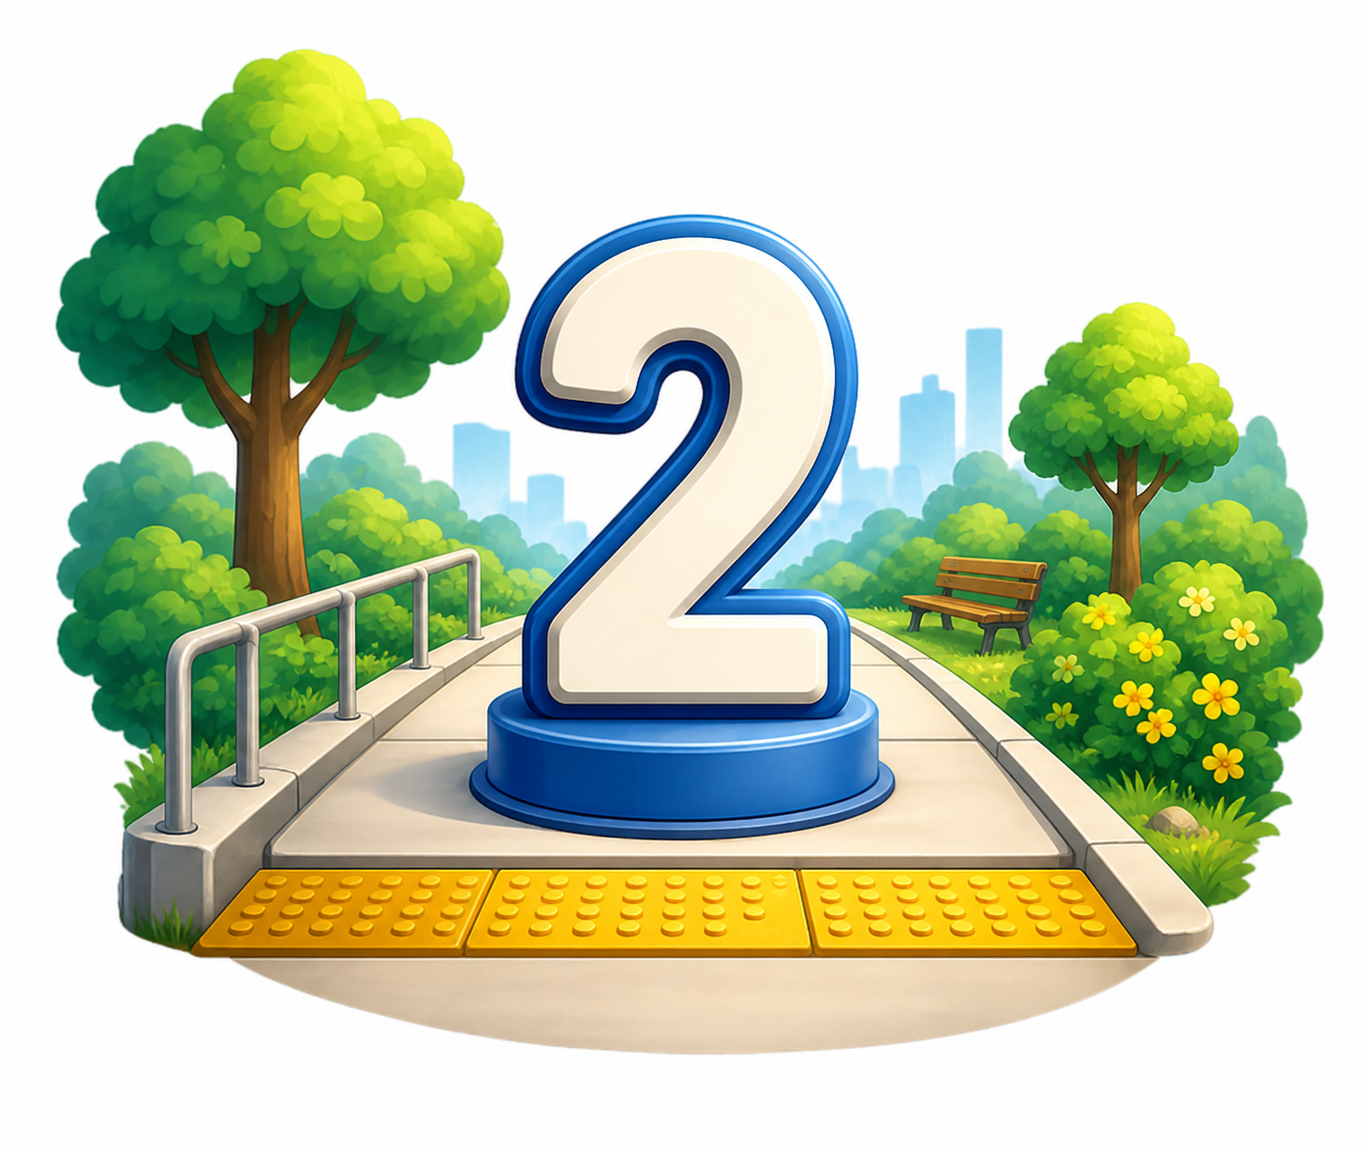
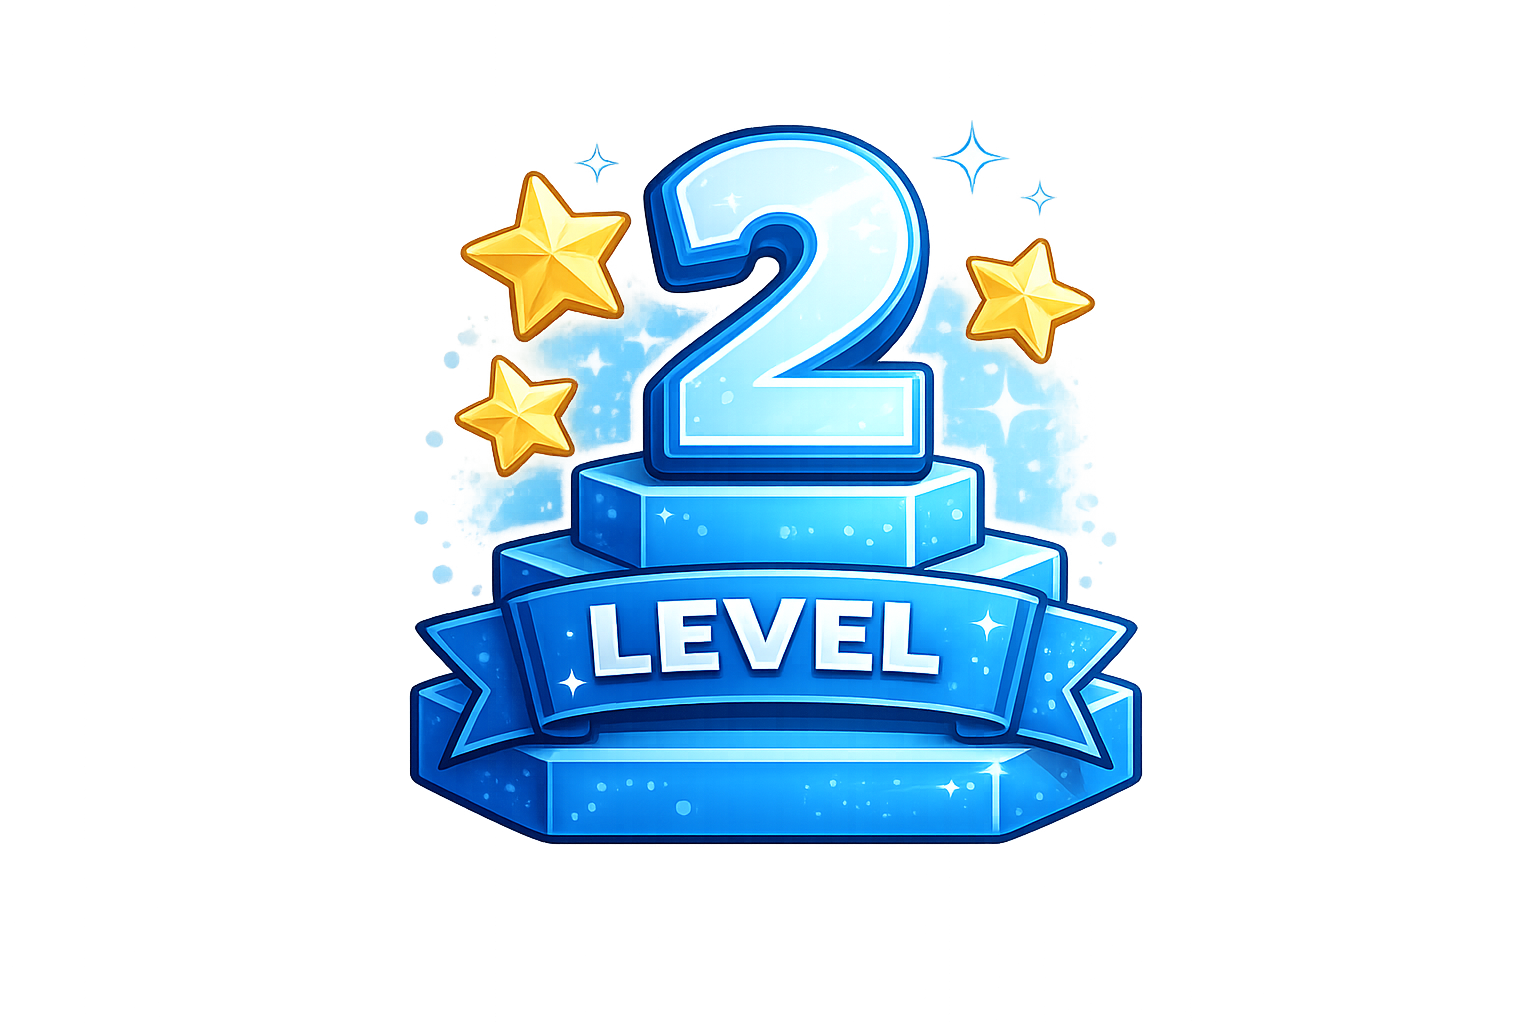
new

diff --git a/client/src/components/level/BrokenPagePreview.jsx b/client/src/components/level/BrokenPagePreview.jsx
@@ -12,7 +12,6 @@ function BrokenPagePreview({
   buttonLarge,
   buttonOutline,
 }) {
-  console.log("buttonOutline in Preview:", buttonOutline);
   const languageLabelOne = languageExpanded ? "English" : "E";
   const languageLabelTwo = languageExpanded ? "Deutsch" : "D";
 
@@ -66,29 +65,33 @@ function BrokenPagePreview({
         </header>
 
         <main
-          className={`fake-page-content fake-selectable ${
+          className={`fake-page-content ${
             textLarge ? "fake-text-large" : "fake-text-small"
-          } ${textDark ? "fake-text-dark" : "fake-text-muted"} ${
-            selectedElement === "Text" ? "fake-selected" : ""
-          }`}
-          onClick={() => setSelectedElement("Text")}
+          } ${textDark ? "fake-text-dark" : "fake-text-muted"}`}
         >
-          <h3
-            className={
-              textLarge
-                ? "fake-content-title-large"
-                : "fake-content-title-small"
-            }
+          <div
+            className={`fake-text-box ${
+              selectedElement === "Text" ? "fake-selected" : ""
+            }`}
+            onClick={() => setSelectedElement("Text")}
           >
-            Willkommen
-          </h3>
+            <h3
+              className={
+                textLarge
+                  ? "fake-content-title-large"
+                  : "fake-content-title-small"
+              }
+            >
+              Willkommen
+            </h3>
 
-          <p>
-            Diese Webseite enthält einige typische Probleme, die du Schritt für
-            Schritt verbessern kannst. Achte dabei besonders auf gut lesbare
-            Texte, ausreichende Kontraste, verständliche Schaltflächen und eine
-            klare visuelle Struktur.
-          </p>
+            <p>
+              Diese Webseite enthält einige typische Probleme, die du Schritt
+              für Schritt verbessern kannst. Achte dabei besonders auf gut
+              lesbare Texte, ausreichende Kontraste, verständliche
+              Schaltflächen und eine klare visuelle Struktur.
+            </p>
+          </div>
 
           <button
             className={`btn btn-secondary fake-selectable ${
@@ -96,7 +99,9 @@ function BrokenPagePreview({
             } ${
               buttonOutline ? "fake-button-accessible" : ""
             } ${
-              selectedElement === "Button" && !buttonOutline ? "fake-selected" : ""
+              selectedElement === "Button" && !buttonOutline
+                ? "fake-selected"
+                : ""
             }`}
             onClick={(e) => {
               e.stopPropagation();

diff --git a/client/src/styles/pages/levelone.css b/client/src/styles/pages/levelone.css
@@ -31,15 +31,12 @@
   margin: 0;
 }
 
-/* zurück und verlassen buttons */
-.level-back-btn,
+/* verlassen button */
 .level-exit-btn {
   flex-shrink: 0;
-
   background-color: var(--color-surface) !important;
   border: 1px solid var(--color-border) !important;
   color: var(--color-text) !important;
-
   padding: 0.75rem 1rem !important;
 }
 
@@ -47,10 +44,6 @@
 .level-exit-btn:focus {
   border-color: var(--color-primary) !important;
   color: var(--color-primary) !important;
-}
-
-.level-exit-btn {
-  color: var(--color-text) !important;
 }
 
 /* layout: links preview, rechts werkzeugkasten */
@@ -105,7 +98,7 @@
   margin-top: 1rem;
 }
 
-/* browser leiste ohne bild */
+/* browser leiste */
 .fake-browser-bar {
   min-height: 52px;
   padding: 0.75rem 1rem;
@@ -180,16 +173,22 @@
   line-height: 1.7;
 }
 
-/* klickbare elemente */
+/* alles anklickbare */
 .fake-selectable {
   cursor: pointer;
   transition: outline 0.2s ease, box-shadow 0.2s ease;
 }
 
-.fake-selectable:hover,
+/* hover nur leicht anzeigen */
+.fake-selectable:hover {
+  outline: 3px dashed #93c5fd !important;
+  outline-offset: 4px;
+}
+
+/* ausgewähltes element */
 .fake-selected {
-  outline: 3px solid var(--color-primary) !important;
-  outline-offset: 3px;
+  outline: 3px dashed #60a5fa !important;
+  outline-offset: 5px;
 }
 
 /* zustände kaputte webseite */
@@ -225,7 +224,7 @@
   color: #ffffff;
 }
 
-/* echter sichtbarer rand für barrierefreien button */
+/* echter sichtbarer rand für verbesserten button */
 .fake-button-accessible {
   border: 2px solid #ffffff !important;
   box-shadow: 0 0 0 3px #323f51 !important;
@@ -293,7 +292,7 @@
   margin-bottom: 1rem;
 }
 
-/* große tool optionen */
+/* tool optionen */
 .tool-option,
 .control-option-box {
   width: 100%;
@@ -376,6 +375,13 @@
   font-size: var(--text-sm);
   line-height: 1.6;
   margin: 0;
+}
+
+/* nur der text soll markiert werden, nicht der ganze main bereich */
+.fake-text-box {
+  width: fit-content;
+  max-width: 900px;
+  padding: 0.5rem;
 }
 
 /* tablet */

diff --git a/client/src/styles/pages/leveltwo.css b/client/src/styles/pages/leveltwo.css
@@ -1,4 +1,4 @@
-/* level 2 nutzt fast den gleichen aufbau wie level 1 */
+/* level 2 nutzt das gleiche grundlayout wie level 1 */
 @import "./levelone.css";
 
 /* fake registrierungsseite */
@@ -36,6 +36,7 @@
 /* formular feld */
 .register-field {
   margin-bottom: 1rem;
+  cursor: pointer;
 }
 
 .register-field label {
@@ -57,22 +58,22 @@
   background-color: var(--color-surface);
 }
 
-/* auswähl rahmen im lernspiel */
-.fake-selected {
-  outline: 3px dashed #60a5fa !important;
-  outline-offset: 5px;
+/* wenn feld angeklickt ist */
+.input-selected-visible {
+  border-color: #60a5fa !important;
+  box-shadow: 0 0 0 4px #dbeafe !important;
 }
 
-/* richtiger fokus nur für das aktuell gewählte feld */
+/* sichtbarer fokus nach verbesserung */
 .input-focus-visible {
-  border: 3px solid var(--color-primary) !important;
-  box-shadow: 0 0 0 4px rgba(37, 99, 235, 0.18);
-  background-color: var(--color-surface);
+  border-color: var(--color-primary) !important;
+  box-shadow: 0 0 0 4px #bfdbfe !important;
 }
 
-/* pflichtfeld */
+/* pflichtfeld stern */
 .required-text {
   color: var(--color-danger);
+  font-weight: 800;
 }
 
 /* fehler */
@@ -83,10 +84,10 @@
 }
 
 .clear-error {
-  font-weight: 700;
+  font-weight: 800;
 }
 
-/* passwort hilfe */
+/* passwort hinweis */
 .password-hint {
   color: var(--color-text-muted);
   font-size: var(--text-xs);
@@ -102,6 +103,7 @@
   color: var(--color-text);
   font-size: var(--text-sm);
   margin: 1rem 0 1.25rem;
+  cursor: pointer;
 }
 
 .register-checkbox input {

diff --git a/client/src/components/level/ControlPanel.jsx b/client/src/components/level/ControlPanel.jsx
@@ -134,18 +134,21 @@ function ControlPanel({
       {selectedElement === "Button" && (
         <>
           <button className="tool-option" onClick={() => setButtonLarge(true)}>
-            <span><FiMaximize2 /></span>
+            <span>
+              <FiMaximize2 />
+            </span>
+
             <div>
               <strong>Button vergrößern</strong>
               <p>Erhöhe die Klickfläche.</p>
             </div>
           </button>
 
-          <button className="tool-option" onClick={() => {
-    console.log("RAND WURDE GEKLICKT");
-    setButtonOutline(true);
-  }}>
-            <span><FiSquare /></span>
+          <button className="tool-option" onClick={() => setButtonOutline(true)}>
+            <span>
+              <FiSquare />
+            </span>
+
             <div>
               <strong>Rand hinzufügen</strong>
               <p>Mache den Button deutlicher.</p>

diff --git a/client/src/pages/LevelPage.jsx b/client/src/pages/LevelPage.jsx
@@ -42,12 +42,6 @@ function LevelPage() {
               Lesbarkeit, Kontrast und verständliche Bedienelemente.
             </p>
 
-            <div className="level-topics">
-              <span><FaCheckCircle /> Lesbarkeit</span>
-              <span><FaCheckCircle /> Kontrast</span>
-              <span><FaCheckCircle /> Buttons</span>
-            </div>
-
             <Link to="/level/1" className="btn btn-primary level-button">
               Level starten
               <FaArrowRight className="button-icon-right" />
@@ -73,12 +67,6 @@ function LevelPage() {
               Analysiere komplexere Probleme der Barrierefreiheit und achte auf
               Kontrastverhältnisse, Fokuszustände und klare Struktur.
             </p>
-
-            <div className="level-topics">
-              <span><FaCheckCircle /> Fokus</span>
-              <span><FaCheckCircle /> Struktur</span>
-              <span><FaCheckCircle /> Kontrast</span>
-            </div>
 
             <Link to="/level/2" className="btn btn-primary level-button">
               Level starten